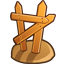
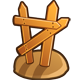
Updated barricades

diff --git a/megafoxhunt-server/src/net/megafox/items/Barricade.java b/megafoxhunt-server/src/net/megafox/items/Barricade.java
@@ -5,6 +5,7 @@ import java.util.TimerTask;
 import net.megafox.entities.Empty;
 import net.megafox.game.GameSimulation;
 import net.megafoxhunt.server.PlayerConnection;
+import net.megafoxhunt.shared.KryoNetwork.AddBarricade;
 import net.megafoxhunt.shared.Shared;
 import net.megafoxhunt.shared.KryoNetwork.ChangeTilesTypes;
 import net.megafoxhunt.shared.KryoNetwork.Move;
@@ -18,29 +19,17 @@ public class Barricade extends Item {
 
 	@Override
 	public void activate(int x, int y, PlayerConnection player) {		
-		int targetX = x;
-		int targetY = y;
-		
-		int direction = player.getEntity().getFacingDirection();
-		if (direction == Shared.DIRECTION_RIGHT) targetX++;
-		else if (direction == Shared.DIRECTION_LEFT) targetX--;
-		else if (direction == Shared.DIRECTION_UP) targetY++;
-		else if (direction == Shared.DIRECTION_DOWN) targetY--;
-		
-		place(targetX, targetY, player);
-	}
-	private void place(int x, int y, PlayerConnection player){		
 		if (gameSimulation.gameMap.getEntity(x, y) instanceof Empty) {
-			ChangeTilesTypes changeTilesTypes = new ChangeTilesTypes();
-			changeTilesTypes.addTile(x, y, 20);
+			int id = gameSimulation.idHandler.getFreeID();
+			AddBarricade addBarricade = new AddBarricade(id, x, y);
 			
-			net.megafox.entities.Barricade barricade = new net.megafox.entities.Barricade(x, y, gameSimulation.idHandler.getFreeID());
+			net.megafox.entities.Barricade barricade = new net.megafox.entities.Barricade(x, y, id);
 			gameSimulation.gameMap.setWall(x, y);
-			gameSimulation.playerContainer.sendObjectToAll(new Move(player.getMyId(), 0, x, y, true));
-			gameSimulation.playerContainer.sendObjectToAll(changeTilesTypes);
+			gameSimulation.playerContainer.sendObjectToAll(addBarricade);
 			gameSimulation.timer.schedule(new RemoveBarricadeTimerTask(barricade), RemoveBarricadeTimerTask.REMOVE_DELAY);
 		}
 	}
+
 	class RemoveBarricadeTimerTask extends TimerTask {
 		
 		private static final int REMOVE_DELAY = 5000;
@@ -56,11 +45,7 @@ public class Barricade extends Item {
 			RemoveEntity removeEntity = new RemoveEntity();
 			removeEntity.id = barricade.getId();
 			gameSimulation.idHandler.freeID(barricade.getId());
-			gameSimulation.playerContainer.sendObjectToAll(removeEntity);
-			
-			ChangeTilesTypes changeTilesTypes = new ChangeTilesTypes();
-			changeTilesTypes.addTile(barricade.getX(), barricade.getY(), 13);
-			gameSimulation.playerContainer.sendObjectToAll(changeTilesTypes);				
+			gameSimulation.playerContainer.sendObjectToAll(removeEntity);		
 		}
 	}
 }

diff --git a/megafoxrun/src/net/megafoxhunt/entities/EntityMovable.java b/megafoxrun/src/net/megafoxhunt/entities/EntityMovable.java
@@ -2,6 +2,7 @@ package net.megafoxhunt.entities;
 
 import java.util.concurrent.ConcurrentLinkedQueue;
 
+import net.megafoxhunt.core.GameMapClientSide;
 import net.megafoxhunt.core.GameNetwork;
 import net.megafoxhunt.core.GameResources;
 import net.megafoxhunt.shared.KryoNetwork.Move;
@@ -36,7 +37,7 @@ public class EntityMovable extends Entity{
 	
 	private Move newMove;
 
-	private TiledMapTileLayer collisionMap;
+	private GameMapClientSide collisionMap;
 	
 	private ConcurrentLinkedQueue<Move> movementQueue;
 	
@@ -44,21 +45,21 @@ public class EntityMovable extends Entity{
 	private int lastY = 0;
 	private int lastDirection = 0;
 	
-	public EntityMovable(int id, float x, float y, float movementSpeed, Animation[] animations) {
+	public EntityMovable(int id, float x, float y, float movementSpeed, Animation[] animations, GameMapClientSide collisionMap) {
 		super(id, x, y, animations);
 		this.movementSpeed = movementSpeed;
 		this.baseSpeed = movementSpeed;
 		movementQueue = new ConcurrentLinkedQueue<Move>();
+		this.collisionMap = collisionMap;
 	}
 	
 	/**
 	 * TODO
 	 * Is giving all these parameters really required every frame?
 	 */
-	public void update(float delta, GameNetwork network, TiledMapTileLayer collisionMap){
+	public void update(float delta, GameNetwork network){
 		float speed = movementSpeed * delta;
-		this.collisionMap = collisionMap;
-		
+
 		if (collisionMap == null) return;
 		
 		if (!isMoving) {
@@ -99,7 +100,7 @@ public class EntityMovable extends Entity{
 		else if (direction == DIRECTION_DOWN) destinationY -= 1;
 		else if (direction == DIRECTION_LEFT) destinationX -= 1;
 		
-		if (!collisionMap.getCell(destinationX, destinationY).getTile().getProperties().containsKey("wall")) {
+		if (!collisionMap.isBlocked(destinationX, destinationY)) {
 			isMoving = true;
 			destinationDirection = direction;
 		} else {

diff --git a/megafoxrun/src/net/megafoxhunt/core/GameMapClientSide.java b/megafoxrun/src/net/megafoxhunt/core/GameMapClientSide.java
@@ -4,6 +4,8 @@ package net.megafoxhunt.core;
 
 
 import java.util.ArrayList;
+
+import net.megafoxhunt.entities.Barricade;
 import net.megafoxhunt.entities.Entity;
 import net.megafoxhunt.shared.GameMapSharedConfig;
 import net.megafoxhunt.shared.KryoNetwork.ChangeState;
@@ -29,20 +31,37 @@ public class GameMapClientSide {
 	@SuppressWarnings("unchecked")
 	public ArrayList<Entity> getAllObjectsConcurrentSafe(){return (ArrayList<Entity>) allObjects.clone();}
 	
+	public ArrayList<Barricade> barricades;
+	
 	public GameMapClientSide(GameMapSharedConfig mapConfig){		
 		this.config = mapConfig;		
 		this.allObjects = new ArrayList<Entity>();
+		this.barricades = new ArrayList<Barricade>();
 	}
 	public void addStaticObject(Entity object){		
-		allObjects.add(object);		
+		allObjects.add(object);
+		if (object instanceof Barricade) barricades.add((Barricade)object);
 	}
 	public void removeStaticObjectByID(int id){		
 		for(Entity object : getAllObjectsConcurrentSafe()){
 			if(object.getId() == id){
 				allObjects.remove(object);
+				if (object instanceof Barricade) barricades.remove(object);
 			}
 		}		
 	}
+	
+	public boolean isBlocked(int x, int y) {
+		TiledMapTileLayer m = (TiledMapTileLayer) tiledMap.getLayers().get(TILEDMAP_COLLISION_LAYER);
+		if (m.getCell(x, y).getTile().getProperties().containsKey("wall")) return true;
+		
+		for (Barricade barricade : barricades) {
+			if (barricade.getX() == x && barricade.getY() == y) return true;
+		}
+		
+		return false;
+	}
+	
 	public TiledMapTileLayer getCollisionLayer(){		
 		return (TiledMapTileLayer)tiledMap.getLayers().get(TILEDMAP_COLLISION_LAYER);
 	}

diff --git a/megafoxrun/src/net/megafoxhunt/core/GameResources.java b/megafoxrun/src/net/megafoxhunt/core/GameResources.java
@@ -39,7 +39,10 @@ public class GameResources {
 		 DEBUG_TEXTURE = new Texture("data/libgdx.png");
 		 
 		 POWERRUP_TEXTURE = new Texture("data/powerup.png");
+		 POWERRUP_TEXTURE.setFilter(TextureFilter.Linear, TextureFilter.Linear);
+		 
 		 BOMB_TEXTURE = new Texture("data/bomb.png");
+		 BOMB_TEXTURE.setFilter(TextureFilter.Linear, TextureFilter.Linear);
 		 
 		 FOX_TEXTURE = new Texture("data/fox.png");
 		 FOX_TEXTURE.setFilter(TextureFilter.Linear, TextureFilter.Linear);
@@ -51,8 +54,10 @@ public class GameResources {
 		 BERRY_TEXTURE.setFilter(TextureFilter.Linear, TextureFilter.Linear);
 		 
 		 HOLE_TEXTURE = new Texture("data/hole.png");
+		 HOLE_TEXTURE.setFilter(TextureFilter.Linear, TextureFilter.Linear);
 		 
 		 BARRICADE_TEXTURE = new Texture("data/barricade.png");
+		 BARRICADE_TEXTURE.setFilter(TextureFilter.Linear, TextureFilter.Linear);
 		 
 		 POWERRUP_ANIMATIONS[DEFAULT_ANIMATION] = generateAnimation(POWERRUP_TEXTURE, 0.025f, 1, 1);
 		 

diff --git a/megafoxrun/src/net/megafoxhunt/core/GameNetwork.java b/megafoxrun/src/net/megafoxhunt/core/GameNetwork.java
@@ -121,14 +121,14 @@ public class GameNetwork {
 				 */
 				else if (object instanceof AddChaser) {
 					AddChaser addChaser = (AddChaser)object;
-					UserContainer.getUserByID(addChaser.id).setControlledEntity(new Chaser(addChaser.id, addChaser.x, addChaser.y));
+					UserContainer.getUserByID(addChaser.id).setControlledEntity(new Chaser(addChaser.id, addChaser.x, addChaser.y, MyGdxGame.mapHandler.currentMap));
 				}
 				/*
 				 * ADD CHASED
 				 */
 				else if (object instanceof AddChased) {
 					AddChased addChased = (AddChased)object;
-					UserContainer.getUserByID(addChased.id).setControlledEntity(new Chased(addChased.id, addChased.x, addChased.y));
+					UserContainer.getUserByID(addChased.id).setControlledEntity(new Chased(addChased.id, addChased.x, addChased.y, MyGdxGame.mapHandler.currentMap));
 				}
 				/*
 				 * ADD BERRY TO MAP

diff --git a/megafoxrun/src/net/megafoxhunt/entities/Chaser.java b/megafoxrun/src/net/megafoxhunt/entities/Chaser.java
@@ -4,6 +4,7 @@ package net.megafoxhunt.entities;
 import com.badlogic.gdx.Gdx;
 import com.badlogic.gdx.graphics.g2d.Batch;
 
+import net.megafoxhunt.core.GameMapClientSide;
 import net.megafoxhunt.core.GameResources;
 import net.megafoxhunt.core.MyGdxGame;
 
@@ -11,8 +12,8 @@ public class Chaser extends EntityMovable{
 		
 	private static final float MOVEMENT_SPEED = 6;
 	
-	public Chaser(int id, float x, float y) {
-		super(id, x, y, MOVEMENT_SPEED, MyGdxGame.resources.DOG_ANIMATIONS);
+	public Chaser(int id, float x, float y, GameMapClientSide gameMap) {
+		super(id, x, y, MOVEMENT_SPEED, MyGdxGame.resources.DOG_ANIMATIONS, gameMap);
 	}
 
 	@Override

diff --git a/megafoxrun/src/net/megafoxhunt/entities/Barricade.java b/megafoxrun/src/net/megafoxhunt/entities/Barricade.java
@@ -1,5 +1,8 @@
 package net.megafoxhunt.entities;
 
+import com.badlogic.gdx.Gdx;
+import com.badlogic.gdx.graphics.g2d.Batch;
+
 import net.megafoxhunt.core.MyGdxGame;
 
 public class Barricade extends Entity {
@@ -7,4 +10,11 @@ public class Barricade extends Entity {
 	public Barricade(int id, float x, float y) {
 		super(id, x, y, MyGdxGame.resources.BARRICADE_ANIMATIONS);
 	}
+	
+	@Override
+	public void render(Batch batch){
+		stateTime += Gdx.graphics.getDeltaTime();
+		currentFrame = animations[animationNumber].getKeyFrame(stateTime, true);
+		batch.draw(currentFrame, x - 0.15f, y, 1.25f, 1.25f);
+	}	
 }

diff --git a/megafoxrun/src/net/megafoxhunt/entities/Chased.java b/megafoxrun/src/net/megafoxhunt/entities/Chased.java
@@ -1,5 +1,6 @@
 package net.megafoxhunt.entities;
 
+import net.megafoxhunt.core.GameMapClientSide;
 import net.megafoxhunt.core.GameResources;
 import net.megafoxhunt.core.MyGdxGame;
 
@@ -10,8 +11,8 @@ public class Chased extends EntityMovable{
 	
 	private static final float MOVEMENT_SPEED = 5;
 	
-	public Chased(int id, float x, float y) {
-		super(id, x, y, MOVEMENT_SPEED, MyGdxGame.resources.FOX_ANIMATIONS);
+	public Chased(int id, float x, float y, GameMapClientSide gameMap) {
+		super(id, x, y, MOVEMENT_SPEED, MyGdxGame.resources.FOX_ANIMATIONS, gameMap);
 	}
 
 	

diff --git a/megafoxhunt-server/src/net/megafox/gameroom/GameRoom.java b/megafoxhunt-server/src/net/megafox/gameroom/GameRoom.java
@@ -335,8 +335,7 @@ public class GameRoom extends Thread {
 	public void move(PlayerConnection player, Move move) {
 		if (gameSimulation == null || playerContainer == null) return;
 		
-		gameSimulation.move(player.getEntity(), move.x, move.y, move.direction, false);		
-		playerContainer.sendObjectToAllExcept(player, move);		
+		gameSimulation.move(player.getEntity(), move.x, move.y, move.direction, false);			
 	}	
 	public PlayerContainer getPlayerContainer() {
 		return playerContainer;

diff --git a/megafoxrun/src/net/megafoxhunt/screens/GameScreen.java b/megafoxrun/src/net/megafoxhunt/screens/GameScreen.java
@@ -68,7 +68,7 @@ public class GameScreen implements Screen {
 		EntityMovable entity = null;
 		for(User user : UserContainer.getUsersConcurrentSafe()){
 			entity = user.getControlledEntity();
-			if (entity != null) entity.update(delta, MyGdxGame.network, MyGdxGame.mapHandler.currentMap.getCollisionLayer());
+			if (entity != null) entity.update(delta, MyGdxGame.network);
 		}
 		
 		// FOCUS CAMERA ON PLAYER ENTITY

diff --git a/megafoxhunt-server/src/net/megafox/game/GameSimulation.java b/megafoxhunt-server/src/net/megafox/game/GameSimulation.java
@@ -184,6 +184,7 @@ public class GameSimulation {
 	
 	public void move(Entity entity, int x, int y, int direction, boolean force) {
 		if (entity.move(x, y, direction, gameMap, force)) {
+			playerContainer.sendObjectToAllExcept(entity.getPlayer(), new Move(entity.getId(), direction, x, y, force));	
 			Entity e = gameMap.getEntity(x, y);
 			if (entity instanceof Chased) {
 				if (e instanceof Berry)  {

diff --git a/megafoxhunt-server/src/net/megafox/entities/Entity.java b/megafoxhunt-server/src/net/megafox/entities/Entity.java
@@ -51,7 +51,7 @@ public class Entity {
 			if (Math.sqrt((targetX - this.x) * (targetX - this.x) + (targetY - this.y) * (targetY - this.y)) > 3) return false;
 		}
 		
-		if(!collidesWithMap(x, y, map)) {
+		if(!collidesWithMap(targetX, targetY, map)) {
 			if (direction == Shared.DIRECTION_STOP) {
 				lastX = targetX;
 				lastY = targetY;
